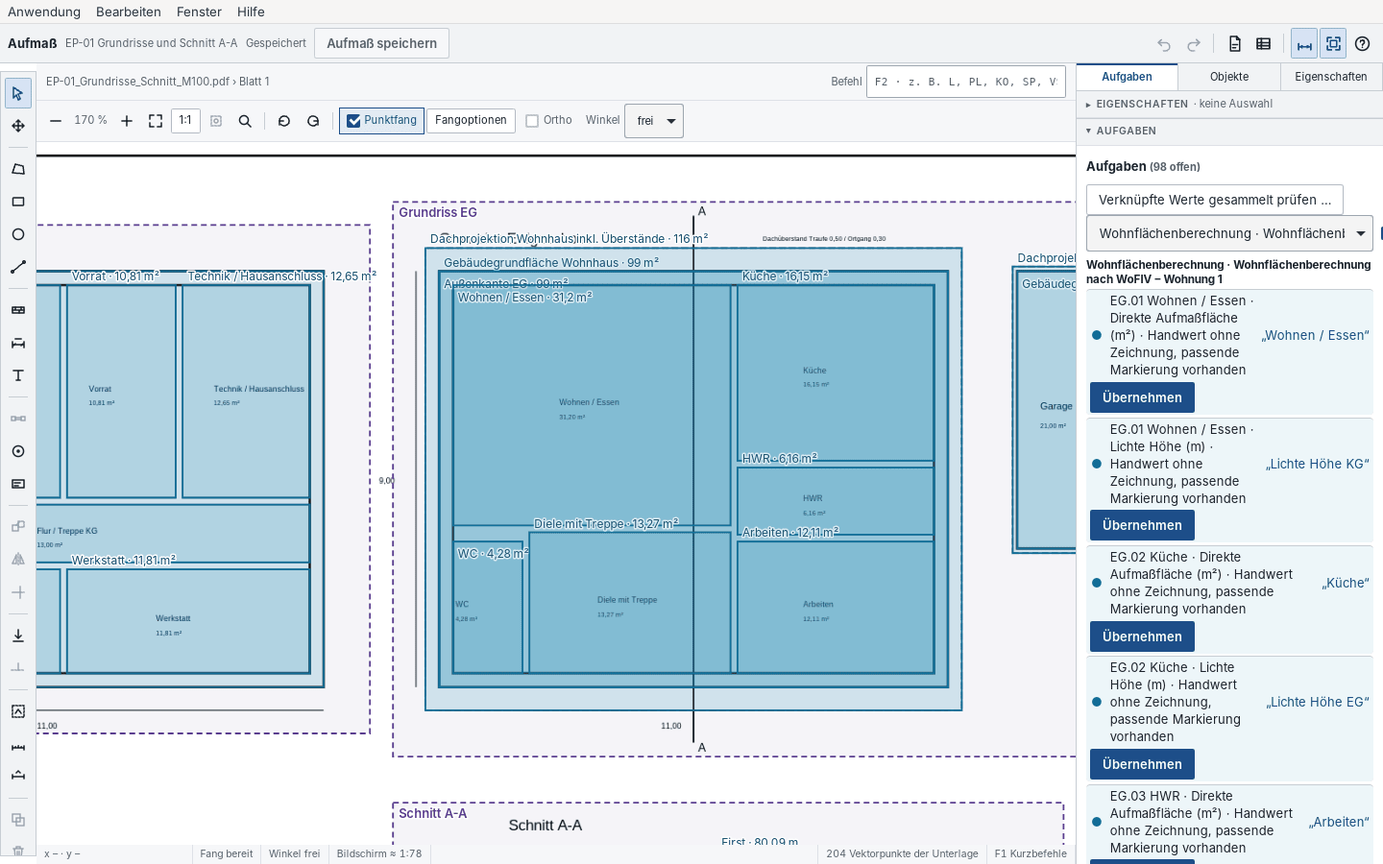
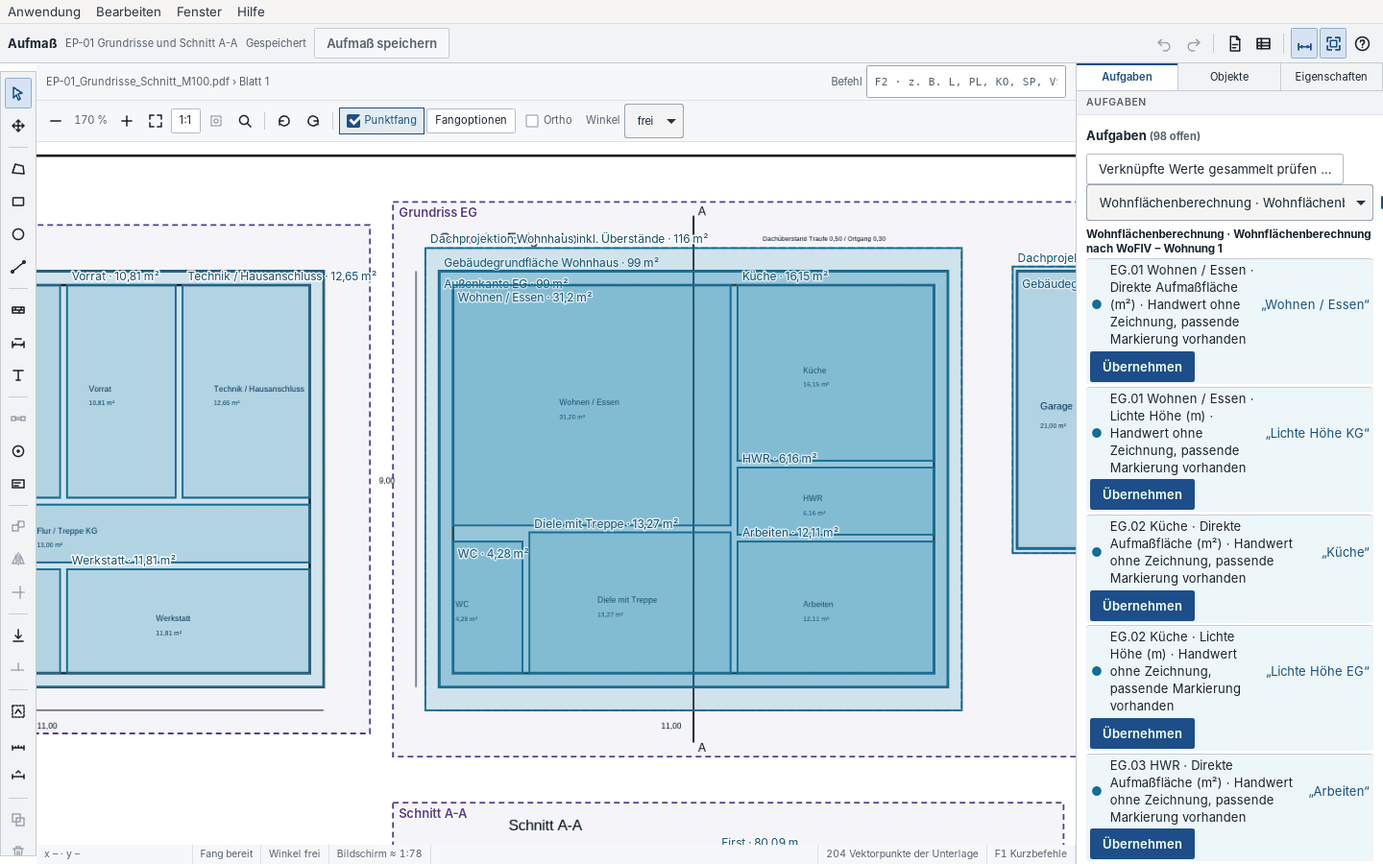
Zeicheneditor: rechte Spalte als echte Reiter
Die Reiter Aufgaben, Objekte und Eigenschaften zeigen jetzt nur ihren
eigenen Inhalt, statt sechs gestapelte Klappbereiche auf- und zuzuklappen.
- Aufgaben: Aufgaben, Voreinstellung und Werkzeugkiste.
- Objekte: Ausschnitte, Zeichenebenen, Markierungen, Zeichenelemente.
- Eigenschaften: die Auswahl; ohne Auswahl das Blatt (Unterlage, Maßstab,
  Höhenbezug, Hintergründe) sowie Prüfen und Ausgabe.
- „Zum Blatt“ im Kopf der Eigenschaften und Esc heben die Auswahl auf.
- Reiter mit role=tab, Pfeiltasten wechseln den Reiter.
- UI-Tests und Handbuch-Bildhelfer auf die Reiter umgestellt.

Claude-Session: https://claude.ai/code/session_01292Y8gDm8pi6EMJRAxpPjM

Changed region(s): [[0.7812, 0.0933, 1.0, 1.0], [0.9375, 0.8089, 0.9688, 0.84], [0.9375, 0.7467, 0.9688, 0.7778]]

diff --git a/apps/desktop/src/lib/planaufmass/Planaufmass.svelte b/apps/desktop/src/lib/planaufmass/Planaufmass.svelte
@@ -81,10 +81,16 @@
   let undo=$state(0),redo=$state(0),verlaufGruppe="";
   let auswahlIds=$state<string[]>([]),punktIndex=$state(0),drehenGrad=$state(0),kanteMeter=$state(1),kanteWinkel=$state(0);
   let suche=$state(""),bedeutungFilter=$state(""),gebaeudeFilter=$state(""),geschossFilter=$state(""),nurFehler=$state(false),panel=$state("aufgaben"),hilfe=$state(false);
-  // Aufgeklappte Paletten rechts; Aufgaben/Objekte/Eigenschaften folgen dem Panelwahl-Zustand.
-  let offen=$state({eigenschaften:false,aufgaben:true,werkzeugkiste:false,objekte:false,blatt:true,pruefen:false});
+  // Rechte Spalte: drei Reiter, jeder zeigt nur seinen eigenen Inhalt.
+  // „Eigenschaften“ ohne Auswahl zeigt das Blatt (Unterlage, Maßstab, Höhenbezug) und die Prüf- und Ausgabefunktionen.
+  const REITER=[["aufgaben","Aufgaben"],["objekte","Objekte"],["eigenschaften","Eigenschaften"]] as const;
   function panelOeffnen(id:string){panel=id}
-  $effect(()=>{const id=panel;untrack(()=>{offen.aufgaben=id==="aufgaben";offen.objekte=id==="objekte";offen.eigenschaften=id==="eigenschaften"})});
+  function auswahlAufheben(){auswahl="";auswahlIds=[];elementAuswahl="";elementAuswahlIds=[]}
+  function reiterTaste(e:KeyboardEvent){
+    const i=REITER.findIndex(r=>r[0]===panel);let n=i;
+    if(e.key==="ArrowRight")n=(i+1)%REITER.length;else if(e.key==="ArrowLeft")n=(i+REITER.length-1)%REITER.length;else if(e.key==="Home")n=0;else if(e.key==="End")n=REITER.length-1;else return;
+    e.preventDefault();panel=REITER[n][0];void tick().then(()=>(e.currentTarget as HTMLElement|null)?.querySelector<HTMLElement>(`[data-reiter="${panel}"]`)?.focus());
+  }
   let markierungsFehler=$state<{id:string;fehler:string}[]>([]);
   let kontrollMeter=$state(10),kontrolle=$state<{gemessen:number;soll:number;stand:string}|null>(null);
   let vergleich=$state(""),vergleichPdf=$state<PdfVorschauDaten|null>(null),vergleichDeckkraft=$state(.5);
@@ -202,6 +208,7 @@
   onMount(()=>{planApi.werkzeugkiste().then(v=>vorlagen=v).catch(e=>{listenFehler=fehlertext(e)})});
   let editor=$state<HTMLDivElement>(), plan=$state<ReturnType<typeof PdfPlan>>();
   const m=$derived(s.eingabe?.markierungen.find(m=>m.id===auswahl));
+  const nichtsGewaehlt=$derived(!m&&!el&&auswahlIds.length===0&&elementAuswahlIds.length===0);
   const layer=$derived(s.eingabe?.ebenen.find(e=>e.id===ebene));
   const objektGesperrt=$derived(!darf||s.laeuft||!!s.eingabe?.ebenen.find(e=>e.id===m?.ebene_id)?.gesperrt);
   const quelleAlt=$derived(!!s.eingabe?.dokument&&dateien.some(d=>d.document_id===s.eingabe!.dokument!.dokument_id&&d.version>s.eingabe!.dokument!.version));
@@ -277,7 +284,7 @@
     if(vorhanden){s.bearbeiten(vorhanden);return}
     s.neu();if(!s.eingabe)return;
     s.eingabe={...s.leer(),bezeichnung:istDxf(d.file_name)?d.file_name:`${d.file_name} · Seite 1`,dokument:{dokument_id:d.document_id,version:d.version},seite:1};
-    offen.blatt=true;
+    panel="eigenschaften";
   }
   async function baugrenzenZuordnen(){
     if(!s.eingabe||!s.id||!darf||baugrenzenLaeuft)return;
@@ -304,9 +311,9 @@
       return;
     }
     s.neu();if(!s.eingabe)return;
-    if(st.zeichnung){s.eingabe=leereZeichnung();offen.blatt=true;return}
+    if(st.zeichnung){s.eingabe=leereZeichnung();panel="eigenschaften";return}
     const d=st.dokument?unterlagen.find(x=>x.document_id===st.dokument!.id&&x.version===st.dokument!.version):undefined;
-    if(d){s.eingabe={...s.leer(),bezeichnung:istDxf(d.file_name)?d.file_name:`${d.file_name} · Seite 1`,dokument:{dokument_id:d.document_id,version:d.version},seite:1};offen.blatt=true}
+    if(d){s.eingabe={...s.leer(),bezeichnung:istDxf(d.file_name)?d.file_name:`${d.file_name} · Seite 1`,dokument:{dokument_id:d.document_id,version:d.version},seite:1};panel="eigenschaften"}
   }
   $effect(()=>{if(modus==="tab"&&gestartet&&!s.eingabe&&!s.gerettet&&!s.laeuft)untrack(()=>onschliessen?.())});
   $effect(()=>{const titel=s.eingabe?.bezeichnung??"",geaendert=s.hatAenderungen(),id=s.original?s.id:null;untrack(()=>onstatus?.({titel,geaendert,id}))});
@@ -321,8 +328,9 @@
   });
   $effect(()=>{
     const id=s.id;
-    untrack(()=>{auswahl="";auswahlIds=[];elementAuswahl="";elementAuswahlIds=[];hgZiel="";betrachterSeite=null;sichtbarkeit={};ebene=s.eingabe?.ebenen[0]?.id??"";undo=0;redo=0;if(s.eingabe)verlauf.reset($state.snapshot(s.eingabe));werkzeug="auswahl";aktiv="";rahmenAuswahl="";offen.blatt=!s.eingabe?.kalibrierung;
+    untrack(()=>{auswahl="";auswahlIds=[];elementAuswahl="";elementAuswahlIds=[];hgZiel="";betrachterSeite=null;sichtbarkeit={};ebene=s.eingabe?.ebenen[0]?.id??"";undo=0;redo=0;if(s.eingabe)verlauf.reset($state.snapshot(s.eingabe));werkzeug="auswahl";aktiv="";rahmenAuswahl="";
       try{const v=JSON.parse(localStorage.getItem(`bauprojekt.planpanel.${benutzerId}.${s.projektId}.${id}`)??"null");if(v){panel=["aufgaben","objekte","eigenschaften"].includes(v.panel)?v.panel:"aufgaben";suche=typeof v.suche==="string"?v.suche.slice(0,500):"";aktiv=v.aktiv??"";auswahl=v.auswahl??"";auswahlIds=auswahl?[auswahl]:[];bedeutungFilter=v.bedeutungFilter??"";gebaeudeFilter=v.gebaeudeFilter??"";geschossFilter=v.geschossFilter??"";nurFehler=v.nurFehler===true}}catch{}
+      if(!s.eingabe?.kalibrierung){panel="eigenschaften";auswahl="";auswahlIds=[]}
     });
   });
   // Ein gespeicherter Stand ist eine eigene Rückgängig-Stufe: Eingaben danach
@@ -419,6 +427,7 @@
       if(e.key==="F2"){e.preventDefault();befehlFeld?.focus();return}
       if(e.key==="Escape"){
         if(werkzeug!=="auswahl")werkzeug="auswahl";
+        else if(!nichtsGewaehlt)auswahlAufheben();
         else if(aktiv)schliessen();
         else if(vollbild)vollbild=false;
         return;
@@ -823,7 +832,7 @@
     if(!(await ask("Ein neues Aufmaß mit neuen Markierungs-IDs auf der ausgerichteten Vergleichsunterlage anlegen? Der alte Stand und alle bisherigen Verknüpfungen bleiben erhalten. Maßstäbe und Höhenbezüge im neuen Entwurf neu festlegen.",{title:"Aufmaß übertragen",okLabel:"Neuen Entwurf anlegen",cancelLabel:"Abbrechen"})))return;
     const kopie=aufmassUebertragen($state.snapshot(s.eingabe),{dokument_id:vergleichPdf.dokument.document_id,version:vergleichPdf.dokument.version},Math.min(s.eingabe.seite,vergleichPdf.seiten.length),$state.snapshot(vergleichAusrichtung));
     if(s.hatAenderungen()&&!(await s.speichern()))return;
-    s.neu();s.eingabe=kopie;vergleich="";vergleichBestaetigt=false;offen.blatt=true;s.meldung="Übertragener Entwurf: Konturen prüfen, Maßstäbe kalibrieren und Höhenbezüge neu festlegen. Bestehende Berechnungen verwenden weiterhin das alte Aufmaß.";
+    s.neu();s.eingabe=kopie;vergleich="";vergleichBestaetigt=false;panel="eigenschaften";s.meldung="Übertragener Entwurf: Konturen prüfen, Maßstäbe kalibrieren und Höhenbezüge neu festlegen. Bestehende Berechnungen verwenden weiterhin das alte Aufmaß.";
   }
   async function exportieren(format:"pdf"|"csv"){
     if(!s.eingabe||!s.id||exportLaeuft)return;
@@ -931,9 +940,10 @@
           {#if messFehler}<p class="fehlertext" role="alert">Aufmaß prüfen: {messFehler}</p>{/if}
         </div>
         <aside bind:this={paletten}>
-          <nav class="panelwahl" aria-label="Planpanel">{#each [["aufgaben","Aufgaben"],["objekte","Objekte"],["eigenschaften","Eigenschaften"]] as [id,titel]}<button type="button" class="sekundaer" class:aktiv={panel===id} aria-pressed={panel===id} onclick={()=>panelOeffnen(id)}>{titel}</button>{/each}</nav>
-          <details class="palette" bind:open={offen.eigenschaften}>
-            <summary><h3>Eigenschaften</h3> <span class="meta">{auswahlTitel}</span></summary>
+          <div class="panelwahl" role="tablist" aria-label="Planpanel" tabindex="-1" onkeydown={reiterTaste}>{#each REITER as [id,titel]}<button type="button" role="tab" id={`reiter-${id}`} data-reiter={id} aria-selected={panel===id} aria-controls="planpanel-inhalt" tabindex={panel===id?0:-1} class="sekundaer" class:aktiv={panel===id} onclick={()=>panelOeffnen(id)}>{titel}</button>{/each}</div>
+          <div id="planpanel-inhalt" class="planpanel" role="tabpanel" aria-labelledby={`reiter-${panel}`}>
+          {#if panel==="eigenschaften"&&!nichtsGewaehlt}<section class="palette" aria-label="Eigenschaften der Auswahl">
+            <div class="palettenkopf"><h3>Eigenschaften</h3> <span class="meta">{auswahlTitel}</span><button type="button" class="link kopflink" title="Auswahl aufheben (Esc) und das Blatt zeigen" onclick={auswahlAufheben}>Zum Blatt</button></div>
             {#if el}
               <fieldset disabled={elementGesperrt} class="element-eigenschaften" aria-label="Zeichenelement">
                 <legend>{el.art==="wand"?"Wand":el.art==="masskette"?"Maßkette":el.art==="symbol"?"Planzeichen":el.art==="raumstempel"?"Raumstempel":"Text"}</legend>
@@ -1035,18 +1045,18 @@
               </fieldset>
               <p class="meta">Nach dem Speichern: {ziel(m.bedeutung)} Eckpunkte lassen sich mit „Auswählen“ ziehen, die ganze Markierung durch Ziehen der Fläche oder mit den Pfeiltasten.</p>
             {/if}
-          </details>
-          <details class="palette" bind:open={offen.aufgaben}>
-            <summary><h3>Aufgaben</h3></summary>
+          </section>{/if}
+          {#if panel==="aufgaben"}<section class="palette" aria-label="Aufgaben">
+            <div class="palettenkopf"><h3>Aufgaben</h3></div>
             {#if s.id}<Planaufgaben projektId={projekt.id} {projekt} {onprojekt} plan={p} aufmassId={s.id} gespeichert={s.original!==null&&!s.hatAenderungen()} {darf} onzeichnen={aufgabeZeichnen} onwaehlen={id=>{waehlen(id);panelOeffnen("eigenschaften")}}/>{:else}<p class="meta">Aufgaben erscheinen, sobald das Aufmaß gespeichert ist.</p>{/if}
             <details><summary>Voreinstellung für freie Markierungen</summary><fieldset disabled={!darf}>
               <label>Bedeutung neuer Markierungen<select aria-label="Bedeutung neuer Markierungen" bind:value={standardBedeutung}>{#each bedeutungen as [id,t]}<option value={id}>{t}</option>{/each}</select></label>
               <label>Gebäude neuer Markierungen<select aria-label="Gebäude neuer Markierungen" bind:value={standardGebaeude} onchange={()=>standardGeschoss=null}><option value={null}>Nicht zugeordnet</option>{#each gebaeude as g}<option value={g.objekt}>{g.daten.bezeichnung}</option>{/each}</select></label>
               {#if standardGebaeude}<label>Geschoss neuer Markierungen<select aria-label="Geschoss neuer Markierungen" bind:value={standardGeschoss}><option value={null}>Nicht zugeordnet</option>{#each gebaeude.find(g=>g.objekt===standardGebaeude)?.daten.geschosse??[] as g}<option value={g.id}>{g.bezeichnung}</option>{/each}</select></label>{/if}
             </fieldset></details>
-          </details>
-          <details class="palette" bind:open={offen.werkzeugkiste}>
-            <summary><h3>Werkzeugkiste</h3> <span class="meta">· Vorlagen mit Bedeutung und Ebene</span></summary>
+          </section>
+          <section class="palette" aria-label="Werkzeugkiste">
+            <div class="palettenkopf"><h3>Werkzeugkiste</h3> <span class="meta">· Vorlagen mit Bedeutung und Ebene</span></div>
             <p class="meta">Ein Klick wählt Werkzeug, Bedeutung, Namen und Zeichenebene der nächsten Markierung; Gebäude und Geschoss kommen aus der Voreinstellung unter „Aufgaben“.</p>
             {#each vorlagenGruppen as [gruppe,liste] (gruppe)}
               <h4>{gruppe}</h4>
@@ -1057,9 +1067,9 @@
                 {/each}
               </div>
             {/each}
-          </details>
-          <details class="palette" bind:open={offen.objekte}>
-            <summary><h3>Objekte</h3> <span class="meta">· {ausschnitte.length} Ausschnitte · {p.ebenen.length} Ebenen · {p.markierungen.length} Markierungen{p.elemente?.length?` · ${p.elemente.length} Elemente`:""}</span></summary>
+          </section>{/if}
+          {#if panel==="objekte"}<section class="palette" aria-label="Objekte">
+            <div class="palettenkopf"><h3>Objekte</h3> <span class="meta">· {ausschnitte.length} Ausschnitte · {p.ebenen.length} Ebenen · {p.markierungen.length} Markierungen{p.elemente?.length?` · ${p.elemente.length} Elemente`:""}</span></div>
             <h3>Ausschnitte <span class="meta">({ausschnitte.length})</span></h3>
             <p class="meta">Je Zeichnung auf dem Blatt ein Ausschnitt. Doppelklick auf einen Rahmen oder „Öffnen“ zeigt nur diesen Bereich; neue Markierungen gehören dann dazu.</p>
             <div class="ausschnitte">
@@ -1134,9 +1144,9 @@
                 {#each p.elemente as e (e.id)}<div class="objektzeile"><button type="button" class:aktiv={e.id===elementAuswahl} onclick={()=>{elementWaehlen(e.id);panelOeffnen("eigenschaften")}}>{e.art==="wand"?`Wand${e.oeffnungen?.length?` · ${e.oeffnungen.length} Öffnung(en)`:""}`:e.art==="masskette"?"Maßkette":e.art==="symbol"?`Planzeichen ${PLANSYMBOLE.find(([k])=>k===e.symbol)?.[1]??""}`:e.art==="raumstempel"?`Raumstempel ${raeume[e.raum_id]?.nummer??"(Raum fehlt)"}`:`Text „${e.inhalt}“`}<span>{p.ebenen.find(x=>x.id===e.ebene_id)?.bezeichnung??"Ebene fehlt"}</span></button></div>{/each}
               </div>
             {/if}
-          </details>
-          <details class="palette" bind:open={offen.blatt}>
-            <summary><h3>Blatt und Einrichtung</h3> <span class="meta">{!p.kalibrierung?"· Maßstab fehlt":`· ${massstabText(p.kalibrierung)}`}{p.hoehenbezug?` · Bezug ${z(p.hoehenbezug.hoehe_m)} ${p.hoehenbezug.system}`:""}</span></summary>
+          </section>{/if}
+          {#if panel==="eigenschaften"&&nichtsGewaehlt}<section class="palette" aria-label="Blatt und Einrichtung">
+            <div class="palettenkopf"><h3>Blatt und Einrichtung</h3> <span class="meta">{!p.kalibrierung?"· Maßstab fehlt":`· ${massstabText(p.kalibrierung)}`}{p.hoehenbezug?` · Bezug ${z(p.hoehenbezug.hoehe_m)} ${p.hoehenbezug.system}`:""}</span></div>
             <fieldset class="quellzeile" disabled={!darf||s.laeuft}>
               <label>Bezeichnung des Aufmaßes<input bind:value={p.bezeichnung} required/></label>
               {#if istZeichnung}<p class="meta">Eigene Zeichnung: Das Blatt rechnet in Metern (1 Einheit = 1 m, y nach unten) und wächst mit den Inhalten. Unterlagen liegen als Hintergründe darunter.</p>
@@ -1213,9 +1223,9 @@
               <div class="dxf-ebenen">{#each dxf.plan.ebenen as e,i}<label><input type="checkbox" checked={dxfSichtbar[i]??true} onchange={ev=>{const an=ev.currentTarget.checked;dxfSichtbar=dxfSichtbar.map((v,j)=>j===i?an:v)}}/><span class="farbe" style:background={e.farbe??"#222"}></span>{e.name}</label>{/each}</div>
               {#if dxf.plan.hinweise.length}<ul class="meta">{#each dxf.plan.hinweise as h}<li>{h}</li>{/each}</ul>{/if}
             {/if}
-          </details>
-          <details class="palette" bind:open={offen.pruefen}>
-            <summary><h3>Prüfen und Ausgabe</h3></summary>
+          </section>
+          <section class="palette" aria-label="Prüfen und Ausgabe">
+            <div class="palettenkopf"><h3>Prüfen und Ausgabe</h3></div>
             <h3>Lage im Baufenster (§ 23 BauNVO)</h3>
             <p class="meta">Im Lageplan das Baufenster (Baugrenzen / Baulinien) mit Bedeutung „Baufenster“ und den Gebäudeumriss mit Bedeutung „Vorhabenumriss“ zeichnen, je genau eine Markierung; bei mehreren Baugrundstücken dem Vorhabenumriss das Baugrundstück zuordnen. Die Zuordnung speichert beide Umrisse in Metern am Projekt; der GRZ-Nachweis bewertet die Lage.</p>
             <button type="button" disabled={!darf||s.laeuft||baugrenzenLaeuft||!s.id} onclick={()=>void baugrenzenZuordnen()}>{baugrenzenLaeuft?"Wird zugeordnet …":"Baufenster und Vorhabenumriss dem Projekt zuordnen"}</button>
@@ -1246,7 +1256,8 @@
                 <button type="button" class="sekundaer" disabled={exportLaeuft||s.laeuft} onclick={()=>void layoutAusgeben()}>Planblatt PDF …</button>
               </details>
             {/if}
-          </details>
+          </section>{/if}
+          </div>
         </aside>
       </div>
     </div>
@@ -1295,12 +1306,11 @@
   .panelwahl button{flex:1;font-size:.85rem;padding:.35rem .3rem;border:0;border-right:1px solid var(--border);border-radius:0;background:transparent;min-height:28px}
   .panelwahl button.aktiv{background:var(--panel);box-shadow:inset 0 2px 0 var(--accent);color:var(--accent);font-weight:600}
   .palette{flex:none;background:var(--panel);border-bottom:1px solid var(--border);padding:0 10px 10px}
-  .palette:not([open]){padding-bottom:0}
-  .palette > summary{margin:0 -10px;padding:5px 10px;font-size:.8rem;font-weight:600;text-transform:uppercase;letter-spacing:.05em;color:var(--muted);background:var(--kopfzeile);border-bottom:1px solid var(--border-innen);list-style:none;display:flex;gap:.4rem;align-items:baseline}
-  .palette > summary::before{content:"▸";font-size:.7rem;transition:transform .1s}
-  .palette[open] > summary::before{transform:rotate(90deg)}
-  .palette > summary .meta{text-transform:none;letter-spacing:0;font-weight:400;min-width:0;overflow:hidden;text-overflow:ellipsis;white-space:nowrap}
-  .palette > summary h3{margin:0;font:inherit;text-transform:inherit;letter-spacing:inherit;color:inherit}
+  .palettenkopf{margin:0 -10px;padding:5px 10px;font-size:.8rem;font-weight:600;text-transform:uppercase;letter-spacing:.05em;color:var(--muted);background:var(--kopfzeile);border-bottom:1px solid var(--border-innen);display:flex;gap:.4rem;align-items:baseline}
+  .palettenkopf .meta{text-transform:none;letter-spacing:0;font-weight:400;min-width:0;overflow:hidden;text-overflow:ellipsis;white-space:nowrap}
+  .palettenkopf h3{margin:0!important;font:inherit!important;text-transform:inherit;letter-spacing:inherit;color:inherit!important}
+  .planpanel{display:flex;flex-direction:column}
+  .palettenkopf .kopflink{margin-left:auto;text-transform:none;letter-spacing:0;font-weight:400;font-size:.8rem;white-space:nowrap}
   /* Aufklappbares Planlayout: Pfeil und Überschrift in einer Zeile. */
   .planlayout > summary{display:flex;gap:.4rem;align-items:baseline;cursor:pointer;list-style:none}
   .planlayout > summary::-webkit-details-marker{display:none}

diff --git a/scripts/handbuch-bilder/helfer.js b/scripts/handbuch-bilder/helfer.js
@@ -314,11 +314,17 @@ async function planKlick(x, y) {
 }
 
 /** Klappt die Palette des Zeicheneditors mit dem Titel `t` auf und rückt sie nach oben. */
+// Paletten der rechten Spalte: Reiter wählen (ohne Auswahl zeigt „Eigenschaften“ das Blatt), dann zum Abschnitt rollen.
+const PALETTENREITER = { "Werkzeugkiste": "Aufgaben", "Aufgaben": "Aufgaben", "Objekte": "Objekte", "Eigenschaften": "Eigenschaften", "Blatt und Einrichtung": "Eigenschaften", "Prüfen und Ausgabe": "Eigenschaften" };
 async function palette(t) {
-  const s = [...document.querySelectorAll("details.palette > summary")].filter(sichtbar).find((x) => txt(x).toUpperCase().startsWith(t.toUpperCase()));
+  const r = [...document.querySelectorAll("[role=tab]")].filter(sichtbar).find((x) => txt(x) === (PALETTENREITER[t] ?? t));
+  if (r) r.click();
+  await sleep(500);
+  if (PALETTENREITER[t] === "Eigenschaften" && t !== "Eigenschaften") { const b = [...document.querySelectorAll("button")].filter(sichtbar).find((x) => txt(x) === "Zum Blatt"); if (b) b.click(); }
+  await sleep(500);
+  const s = [...document.querySelectorAll("section.palette > .palettenkopf")].filter(sichtbar).find((x) => txt(x).toUpperCase().startsWith(t.toUpperCase()));
   if (!s) throw new Error("Palette fehlt: " + t);
-  if (!s.parentElement.open) s.click();
-  await sleep(800);
+  await sleep(300);
   s.scrollIntoView({ block: "start" });
   await sleep(400);
 }

diff --git a/apps/desktop/tests/planbearbeitung.py b/apps/desktop/tests/planbearbeitung.py
@@ -27,7 +27,12 @@ with sync_playwright() as p:
     scope.get_by_role("button",name="1:1",exact=True).click()
     scope.get_by_role("button",name="Maßstab setzen",exact=True).click()
     scope.get_by_label("Punktfang",exact=True).uncheck()
-    def tab(name): scope.get_by_role("navigation",name="Planpanel").get_by_role("button",name=name,exact=True).click()
+    def tab(name): scope.get_by_role("tablist",name="Planpanel").get_by_role("tab",name=name,exact=True).click()
+    def blatt(sc=None):
+        sc=sc or scope
+        sc.get_by_role("tablist",name="Planpanel").get_by_role("tab",name="Eigenschaften",exact=True).click()
+        zb=sc.get_by_role("button",name="Zum Blatt",exact=True)
+        if zb.count():zb.click()
     def click(x,y):
         svg.scroll_into_view_if_needed()
         q=svg.evaluate("""async(svg,p)=>{
@@ -105,6 +110,7 @@ with sync_playwright() as p:
     # Seitenminiaturen dienen der Betrachtung. Erst eine eigene Aktion legt ein neues Aufmaß an.
     scope.get_by_role("button",name="Seiten (2)",exact=True).click()
     scope.get_by_role("button",name="Seite 2",exact=True).click()
+    blatt()
     expect(scope.get_by_label("Seite",exact=True)).to_have_value("1")
     expect(scope.get_by_text("Betrachtung von Seite 2.",exact=False)).to_be_visible()
     scope.get_by_role("button",name="Eigenes Aufmaß für diese Seite anlegen …",exact=True).click()
@@ -139,7 +145,7 @@ with sync_playwright() as p:
     scope.get_by_role("button",name="Vollbild beenden",exact=True).click()
     # Vergleich und Übertragung erhalten die ursprüngliche Markierung/Verknüpfung.
     original_marker=page.evaluate("window.planSaved.daten.markierungen[0].id")
-    scope.locator("aside summary").filter(has_text="Prüfen und Ausgabe").click()
+    blatt()
     expect(scope.get_by_text("Planstände vergleichen",exact=True)).to_be_visible()
     scope.get_by_label("Vergleichsunterlage",exact=True).select_option("d316da8b-cbfb-4ae6-931b-8765fb6454b2|1")
     scope.get_by_label("Blattlage und Konturen anhand der Überlagerung geprüft",exact=True).check()
@@ -161,11 +167,12 @@ with sync_playwright() as p:
     rs=read.locator(".projekt-sitzung:visible");rs.get_by_role("button",name="Öffnen",exact=True).click()
     expect(rs.get_by_role("button",name="1:1",exact=True)).to_be_enabled()
     expect(rs.get_by_role("button",name="Speichern",exact=True)).to_be_disabled()
-    rs.get_by_role("navigation",name="Planpanel").get_by_role("button",name="Objekte",exact=True).click()
+    rs.get_by_role("tablist",name="Planpanel").get_by_role("tab",name="Objekte",exact=True).click()
     rs.locator(".ebene").get_by_label("An",exact=True).uncheck()
     expect(rs.get_by_role("button",name="Speichern",exact=True)).to_be_disabled()
     rs.locator(".ebene").get_by_label("An",exact=True).check()
     rs.get_by_role("button",name="Seiten (2)",exact=True).click();rs.get_by_role("button",name="Seite 1",exact=True).click()
+    blatt(rs)
     expect(rs.get_by_label("Seite",exact=True)).to_have_value("2")
     expect(rs.get_by_role("button",name="Zum Aufmaßblatt zurück",exact=True)).to_be_visible()
     read.close()

diff --git a/apps/desktop/tests/zeichnung.py b/apps/desktop/tests/zeichnung.py
@@ -47,8 +47,8 @@ with sync_playwright() as pw:
  expect(tab.get_by_label('Bezeichnung',exact=True).first).to_have_value('Markierung 1')
  expect(tab.locator('.messwerte')).to_contain_text('50 m²')
  # Werkzeugkiste: ein Klick wählt Polygon, Bedeutung NUF, Namen und legt die Ebene „DIN 277“ an.
- kiste=tab.locator('details.palette').filter(has_text='Werkzeugkiste')
- if not kiste.evaluate('d=>d.open'):kiste.locator('summary').click()
+ tab.get_by_role('tab',name='Aufgaben',exact=True).click()
+ kiste=tab.locator('section.palette[aria-label="Werkzeugkiste"]')
  kiste.get_by_role('button',name='DIN 277 NUF',exact=True).click()
  expect(tab.get_by_role('status').filter(has_text='Vorlage DIN 277 NUF')).to_be_visible()
  expect(tab.get_by_role('button',name='Polygon',exact=True)).to_have_attribute('aria-pressed','true')
@@ -58,8 +58,9 @@ with sync_playwright() as pw:
  expect(tab.get_by_label('Zeichenebene',exact=True)).to_have_value(tab.get_by_label('Zeichenebene',exact=True).locator('option',has_text='DIN 277').evaluate('o=>o.value'))
  expect(tab.get_by_role('status').filter(has_text='Vorlage DIN 277 NUF')).to_have_count(0)
  # Hintergrund: PDF-Seite 1 im Maßstab 1:100, über Strecke einpassen, verschieben.
- blatt=tab.locator('details.palette').filter(has_text='Blatt und Einrichtung')
- if not blatt.evaluate('d=>d.open'):blatt.locator('summary').click()
+ tab.get_by_role('tab',name='Eigenschaften',exact=True).click()
+ tab.get_by_role('button',name='Zum Blatt',exact=True).click()
+ expect(tab.locator('section.palette[aria-label="Blatt und Einrichtung"]')).to_be_visible()
  tab.get_by_label('Hintergrund-Unterlage',exact=True).select_option(label='Grundrisse.pdf · V1')
  tab.get_by_role('button',name='Hintergrund hinzufügen',exact=True).click()
  expect(svg.locator('.hintergrund image')).to_have_count(1)

diff --git a/apps/desktop/tests/ifc.py b/apps/desktop/tests/ifc.py
@@ -229,8 +229,8 @@ with sync_playwright() as pw:
  # IFC-Geschoss als Hintergrund einer eigenen Zeichnung.
  scope.get_by_role('button',name='Neue Zeichnung',exact=True).click()
  tab=scope.locator('section[aria-label="Neue Zeichnung"]:visible')
- blatt=tab.locator('details.palette').filter(has_text='Blatt und Einrichtung')
- if not blatt.evaluate('d=>d.open'):blatt.locator('summary').click()
+ tab.get_by_role('tab',name='Eigenschaften',exact=True).click()
+ expect(tab.locator('section.palette[aria-label="Blatt und Einrichtung"]')).to_be_visible()
  tab.get_by_label('Hintergrund-Unterlage').select_option(label=f"{ifc['datei_name']} · V1")
  expect(tab.get_by_label('Geschoss des IFC-Modells')).to_have_value(eg['global_id'])
  tab.get_by_label('Geschoss des IFC-Modells').select_option(og['global_id'])

diff --git a/docs/handbuch/benutzerhandbuch/05-ermittlung.md b/docs/handbuch/benutzerhandbuch/05-ermittlung.md
@@ -65,7 +65,7 @@ Bildschirm; die Akte bleibt im Hauptfenster bedienbar.
 | Kopfleiste | Speichern, Schließen, Rückgängig/Wiederholen, „Aufmaßblatt PDF …“, „Messwerte CSV …“, Maße anzeigen, Vollbild (F11), Kurzbefehle (F1) |
 | Werkzeugleiste links | Auswählen (V), Verschieben (M), Polygon (P), Rechteck (R), Kreis (K), Strecke / Dach (S), Wand (W), Maßkette (L), Text (X), Höhenpunkt (H), Bezugslinie setzen, Ausschnitt anlegen, Zwei Punkte kalibrieren, Kontrollstrecke messen, Duplizieren, Markierung entfernen |
 | Ansichtsleiste | Zoom (bei eigenen Zeichnungen als Bildschirmmaßstab 1:n), Einpassen, 1:1, Auf Auswahl, Zoomfenster (Z), drehen, **Punktfang** und Fangoptionen |
-| Paletten rechts | **Aufgaben** (was noch gezeichnet bzw. übernommen werden muss), **Objekte** (Ausschnitte, Zeichenebenen, Markierungen), **Eigenschaften** (der Auswahl), **Werkzeugkiste** (Vorlagen) |
+| Reiter rechts | **Aufgaben** (was noch gezeichnet bzw. übernommen werden muss, dazu Voreinstellung und **Werkzeugkiste**), **Objekte** (Ausschnitte, Zeichenebenen, Markierungen), **Eigenschaften** (der Auswahl; ohne Auswahl **Blatt und Einrichtung** sowie **Prüfen und Ausgabe**). Esc oder „Zum Blatt“ hebt die Auswahl auf |
 | Statusleiste | Zeigerposition in Metern, aktiver Fang, Ortho bzw. Winkelraster, Bildschirmmaßstab, Unterlage bzw. Blattgröße; die Tastenbelegung zeigt F1 |
 
 Alle Werkzeuge erscheinen als Symbol; der Name und das Tastenkürzel stehen im
@@ -84,13 +84,13 @@ Tooltip. Die vollständige Tastenbelegung: [Kapitel 10](10-anhang.md#zeichenedit
 
 ![Objekte: Ausschnitte, Zeichenebenen, Markierungen](bilder/ermittlung-aufmass-objekte.png)
 
-Die Palette **Objekte** listet die Ausschnitte („Öffnen“ zeigt nur diesen
+Der Reiter **Objekte** listet die Ausschnitte („Öffnen“ zeigt nur diesen
 Bereich), die **Zeichenebenen** (Sichtbarkeit „An“, „Sperre“, aktive Ebene)
 und alle **Markierungen** mit Suche und Filtern nach Bedeutung und Gebäude.
 
 ### Zeichnen und zuordnen
 
-Der schnellste Weg führt über die Palette **Aufgaben**: Sie listet alle Ziele
+Der schnellste Weg führt über den Reiter **Aufgaben**: Sie listet alle Ziele
 im Projekt, die einen Messwert brauchen – Flurstücke, Abzugsflächen,
 GRZ-Bauteile, Gebäude und Geschosse, Abstandswände, Positionen der
 Fachberechnungen und Räume der Raumbücher.
@@ -110,7 +110,7 @@ Fachberechnungen und Räume der Raumbücher.
 Alternativ eine Vorlage aus der **Werkzeugkiste** anklicken (z. B. „DIN 277
 NUF“, „Versiegelte Fläche“, „Gebäudegrundfläche“). Sie stellt Werkzeug,
 Bedeutung, Namen und Zeichenebene ein. Freie Markierungen erhalten ihre
-**Bedeutung** und Zuordnung in der Palette **Eigenschaften**.
+**Bedeutung** und Zuordnung im Reiter **Eigenschaften**.
 
 ![Werkzeugkiste mit Vorlagen für Grundstück, GRZ-Bauteile, Gebäude, Räume, DIN 277 und Höhen](bilder/editor-werkzeugkiste.png)
 
@@ -146,7 +146,7 @@ vermeidet dabei Doppelerfassungen:
 - **Abzugsflächen, GRZ-Bauteile, Räume:** Gibt es schon eine passende
   Handzeile (gleiche Art am selben Flurstück/Baugrundstück bzw. gleicher
   Raumname), fragt die Übernahme: *verknüpfen* (Art, Grundlage und
-  Bezeichnung bleiben) oder *neue Zeile*. Die Aufgaben-Palette kennzeichnet von Hand
+  Bezeichnung bleiben) oder *neue Zeile*. Der Reiter Aufgaben kennzeichnet von Hand
   erfasste Werte mit „manuell erfasst“ bzw. „Handwert ohne Zeichnung, passende
   Markierung vorhanden“.
 - **Doppelerfassung:** Stehen eine gezeichnete und eine fast gleich große
@@ -165,7 +165,7 @@ vermeidet dabei Doppelerfassungen:
 
 1. **Neue Zeichnung** wählen. Das Blatt rechnet in Metern (Meterraster),
    Maßstab und Kalibrierung entfallen.
-2. Unter „Blatt und Einrichtung → Hintergründe“ eine PDF-Seite oder DXF als
+2. Ohne Auswahl unter „Eigenschaften“ → „Blatt und Einrichtung → Hintergründe“ eine PDF-Seite oder DXF als
    Hintergrund hinzufügen und einpassen: Maßstab bzw. Einheit, „Über Strecke
    einpassen“, „Verschieben“, „Um Punkt drehen“, Deckkraft und Sichtbarkeit.
    Der Punktfang greift auf die Vektoren des Hintergrunds.
